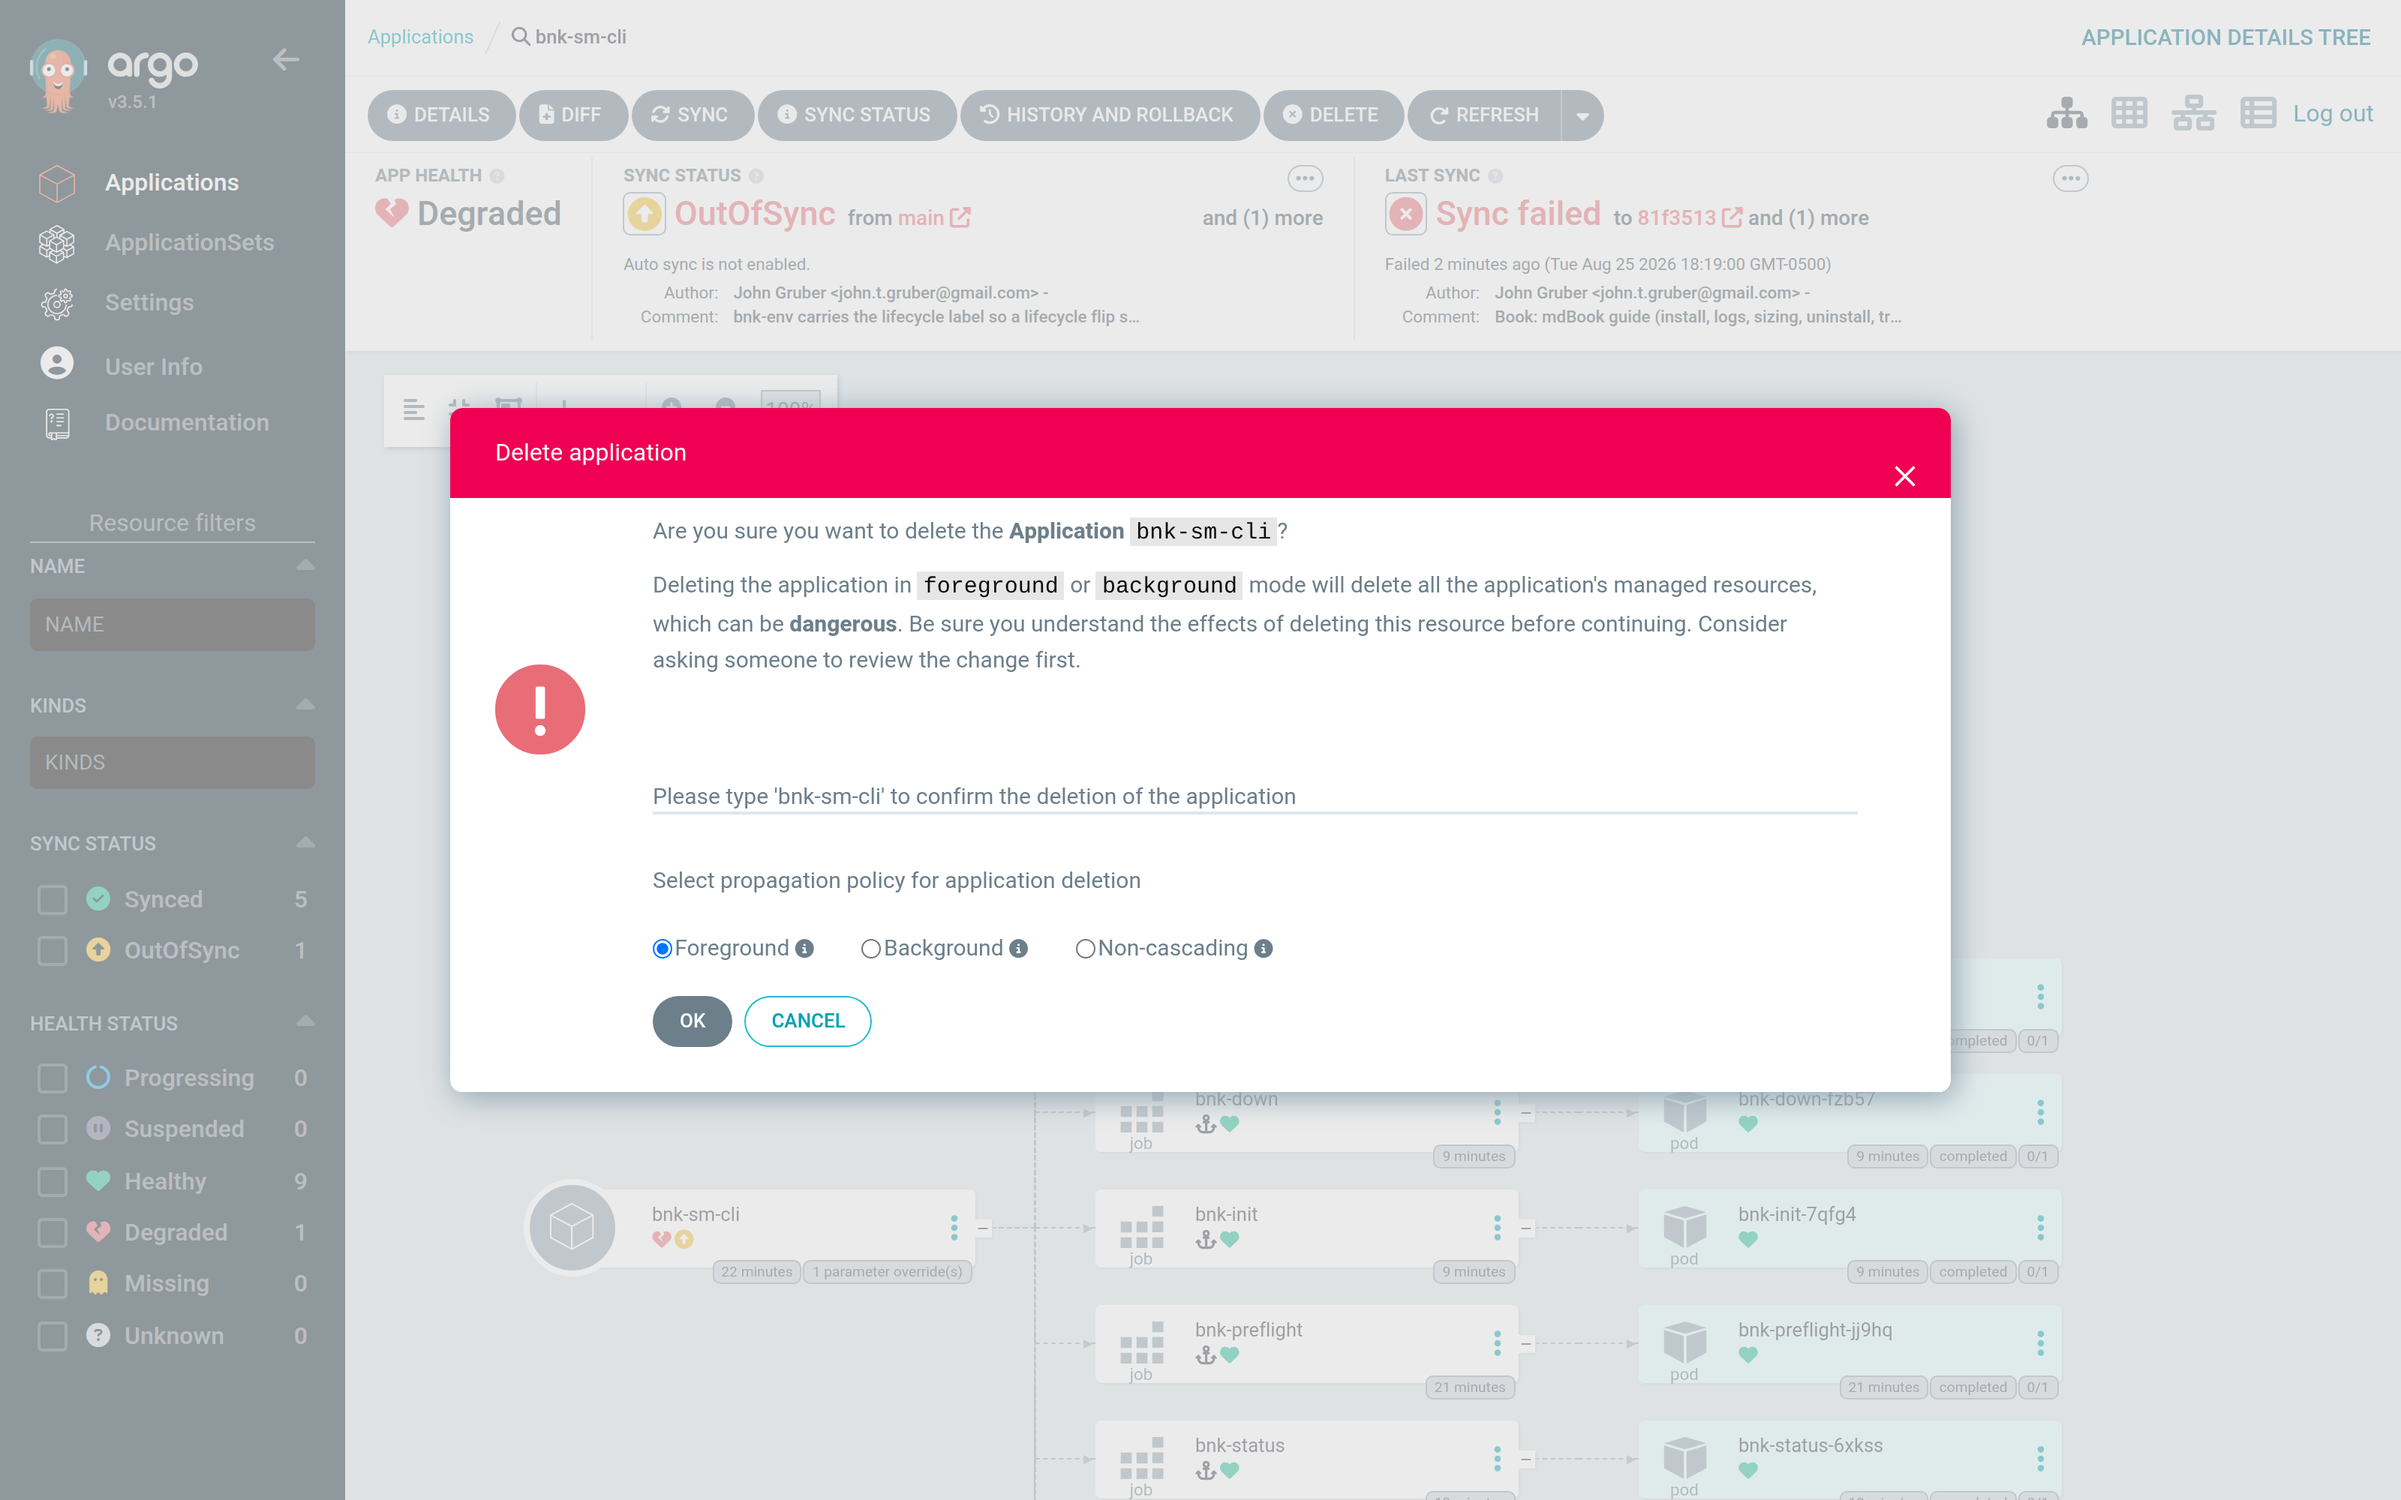
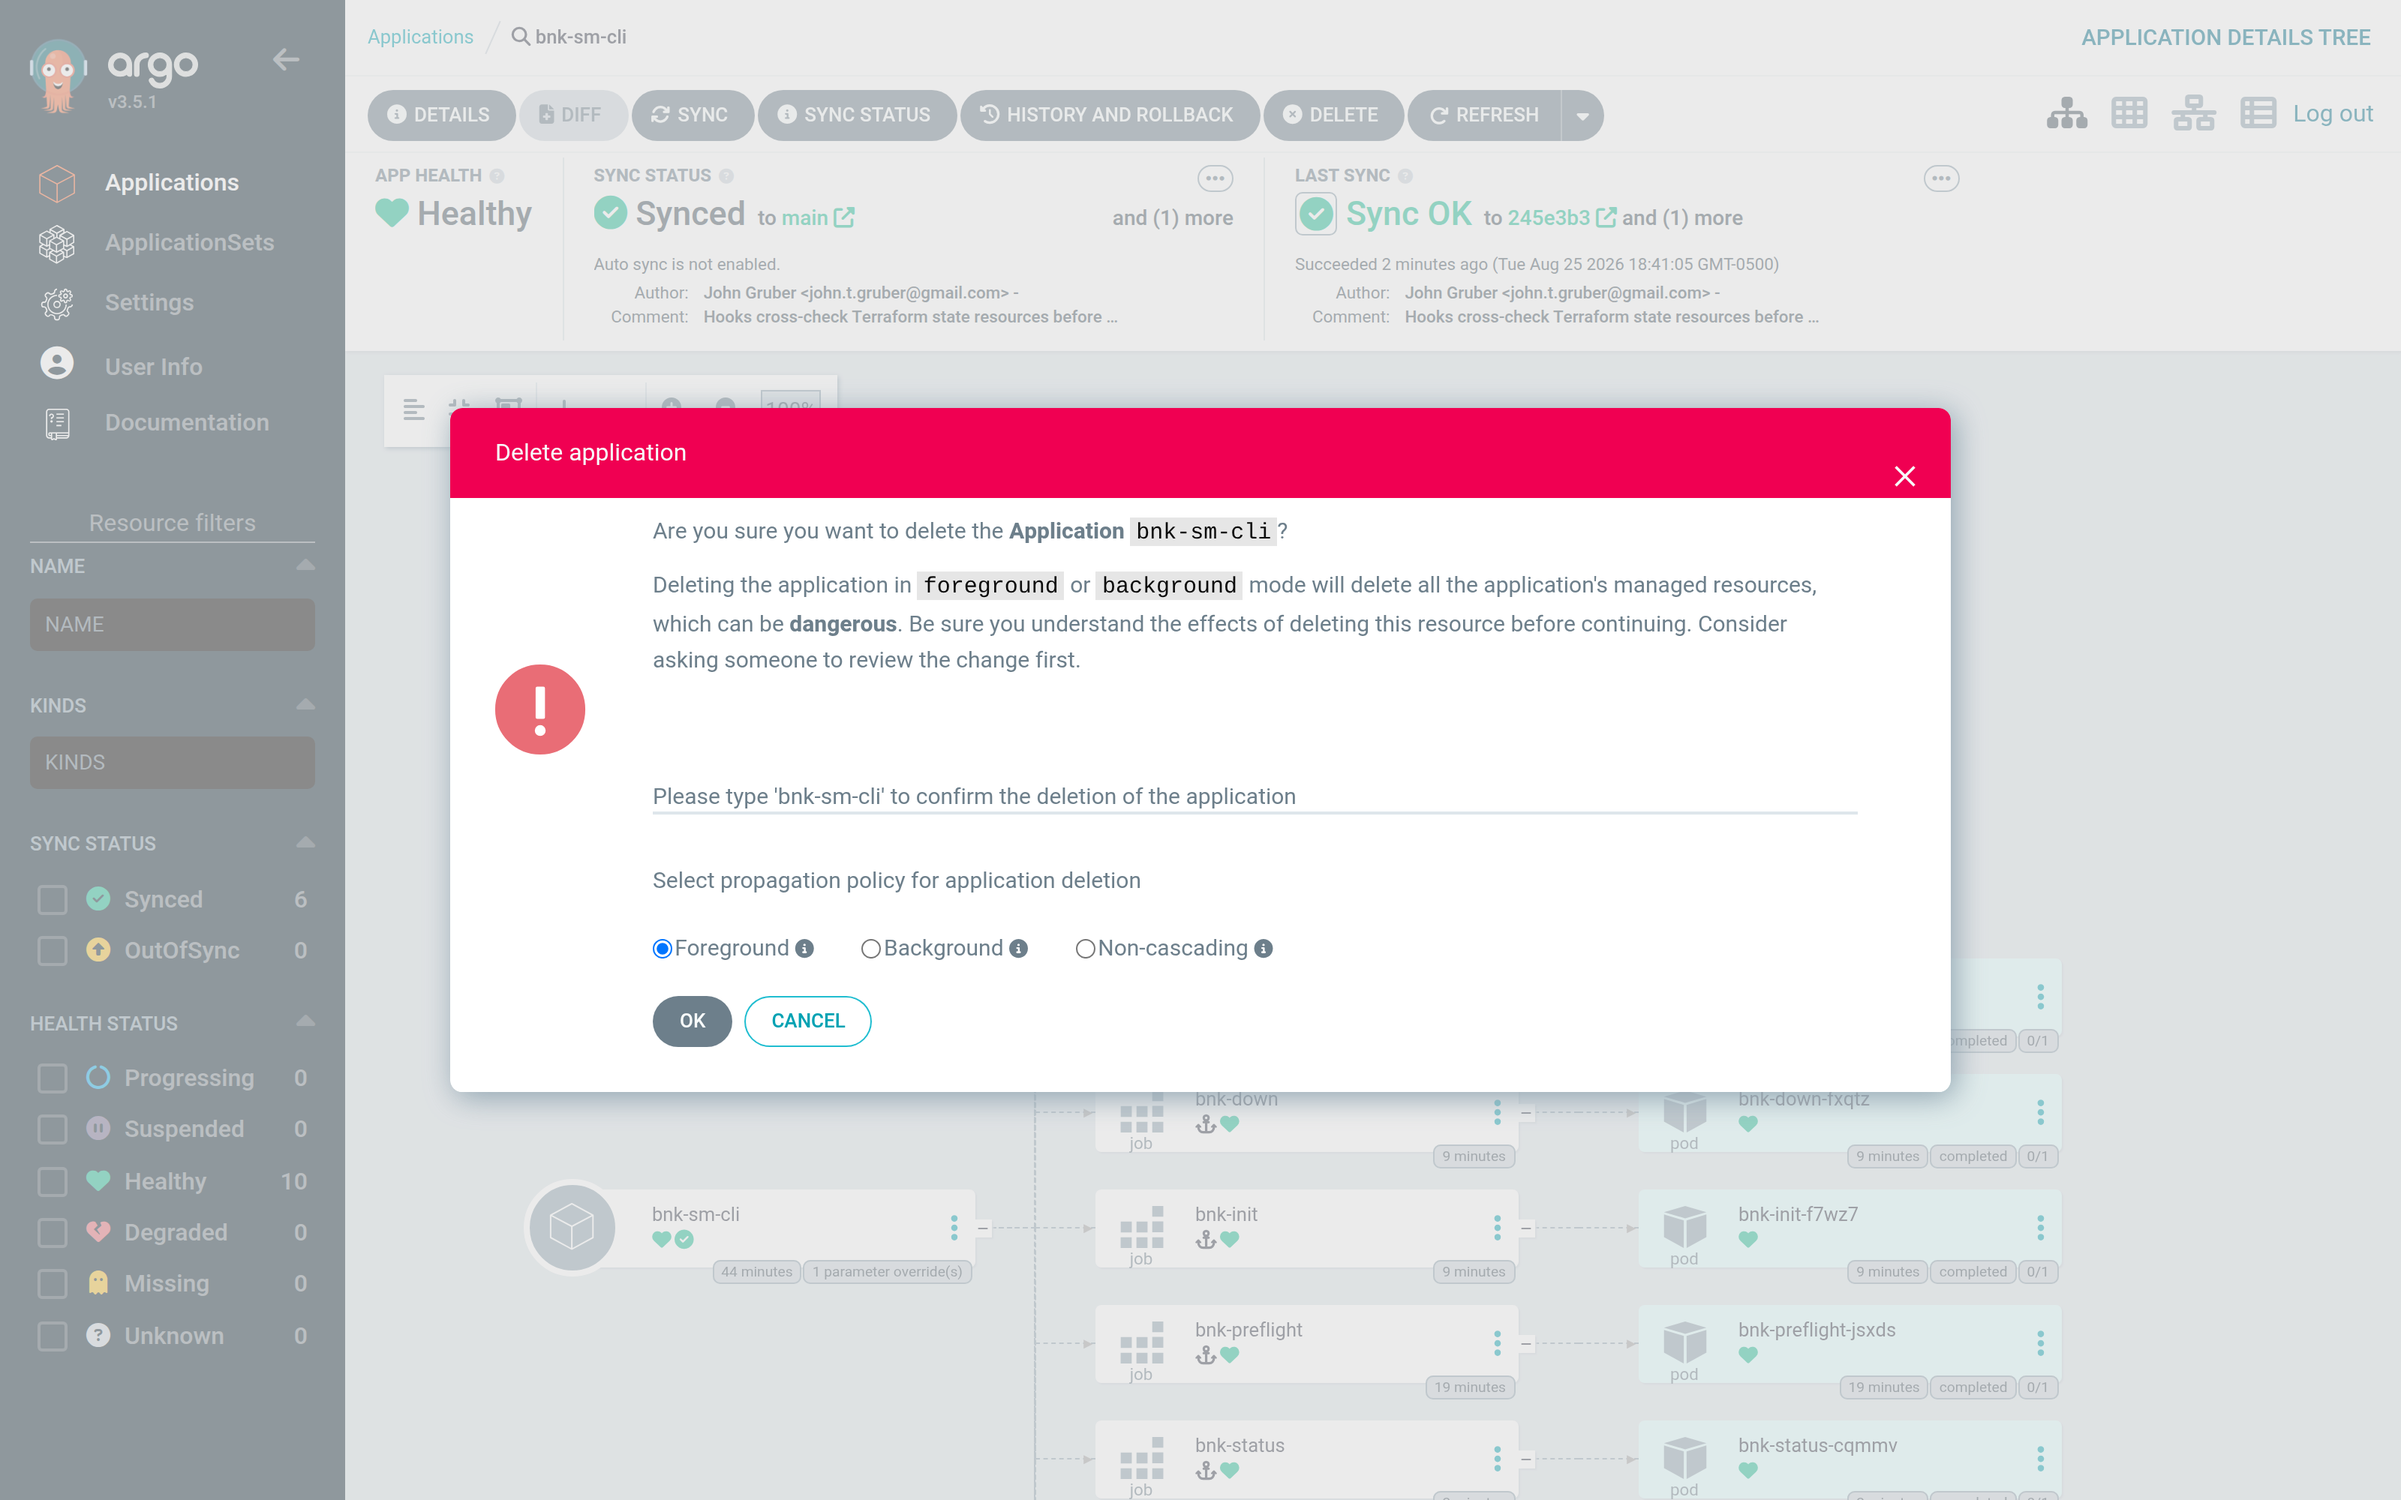
Book: uninstall chapter with real teardown captures (OutOfSync with override, Sources tab, live bnk-down log, torn down, Delete dialog); tfstate cross-check note
Claude-Session: https://claude.ai/code/session_013dz6ug5kXKb94iL9fYSWhs

Changed region(s): [[0.4688, 0.093, 0.7812, 0.217], [0.1562, 0.062, 0.4688, 0.217]]

diff --git a/book/capture/capture.js b/book/capture/capture.js
@@ -141,11 +141,22 @@ const sleep = ms => new Promise(r => setTimeout(r, ms));
         await goto(appUrl());
         await clickText('button', 'details'); await sleep(1500);
         // the sliding panel's tabs are anchors/spans; find "Parameters" by text
-        await page.evaluate(() => { const t = Array.from(document.querySelectorAll('a,span,div')).find(e => ['Sources','Parameters'].includes((e.textContent || '').trim()) && e.children.length === 0); if (t) t.click(); });
-        await sleep(2000);
+        // the panel's tab strip: match the tab by (case-insensitive) text, prefer the smallest element
+        await page.evaluate(() => {
+          const cands = Array.from(document.querySelectorAll('.tabs__nav a, .tabs__nav span, [class*="tab"] a, [class*="tab"] span, a, span, div, li'))
+            .filter(e => /^(sources|parameters)$/i.test((e.textContent || '').trim()));
+          cands.sort((a, b) => a.textContent.length - b.textContent.length || (a.getBoundingClientRect().width - b.getBoundingClientRect().width));
+          if (cands[0]) cands[0].click();
+        });
+        await sleep(2500);
         // expand the first (chart) source so its Helm parameters are visible
-        await page.evaluate(() => { const t = Array.from(document.querySelectorAll('a,span,div,i')).find(e => /charts\/bnk-workspace/.test(e.textContent || '') && e.children.length <= 2); if (t) t.click(); });
-        await sleep(1500);
+        await page.evaluate(() => {
+          // "Source 1: <repo>" header row → its expand chevron
+          const hdr = Array.from(document.querySelectorAll('div,span,a')).filter(e => /^Source 1:/.test((e.textContent || '').trim()) && e.children.length <= 3).sort((a, b) => a.textContent.length - b.textContent.length)[0];
+          const chev = hdr && hdr.parentElement && hdr.parentElement.querySelector('i[class*="chevron"], i[class*="angle"], [class*="expand"]');
+          (chev || hdr) && (chev || hdr).click();
+        });
+        await sleep(2000);
         await shot(rest[0] ? `details-sources-${rest[0]}` : 'details-sources');
         await page.keyboard.press('Escape');
       }

diff --git a/book/src/10-uninstall.md b/book/src/10-uninstall.md
@@ -31,8 +31,10 @@ git commit -am "sm-cli: tear BNK down" && git push
 is a *multi-source* Application (the chart and the values overlay are two
 sources), so the Helm values live under **Details → Sources**: open
 **Applications → bnk-sm-cli → Details**, choose the **Sources** tab, expand
-the `charts/bnk-workspace` source, click **Edit** next to its parameters, add
-`lifecycle` = `down`, **Save**. Argo CD stores the override in the Application
+**Source 1** (`PATH=charts/bnk-workspace`), click **Edit** in its **Helm**
+section, set the `lifecycle` parameter to `down`, **Save**. The override shows
+in the Parameters list with a wrench icon, and the Application card gains a
+"1 parameter override(s)" badge. Argo CD stores the override in the Application
 spec (`spec.sources[0].helm.parameters`); a later Git change to the overlay
 will not undo it until you remove the override.
 
@@ -65,11 +67,24 @@ module.license.module.license.kubectl_manifest.license[0]: Destroying...
 …
 module.cne_instance.module.cneinstance.kubectl_manifest.cneinstance[0]: Destruction complete
 module.flo.module.flo.helm_release.flo[0]: Destruction complete
+…
+Error: context deadline exceeded
+  ⚠ namespace "f5-bnk" was stuck Terminating; cleared F5 finalizers on 2 object(s) and it drained.
+→ terraform destroy (retry, after freeing the stuck namespace)
+Plan: 0 to add, 0 to change, 5 to destroy.
 module.flo.module.flo.ibm_iam_trusted_profile.cne_controller[0]: Destruction complete
 module.cert_manager.module.cert_manager.helm_release.cert_manager[0]: Destruction complete
-Destroy complete! Resources: 37 destroyed.
+Destroy complete! Resources: 5 destroyed.
+✓ BNK phase destroyed. Cluster phase /work/.roksbnkctl/sm-cli/state-cluster/ is intact.
 [status] succeeded deployed=false — bnk down completed
 ```
+
+That log is what actually happened on `sm-cli`: the first destroy hit a
+namespace that would not finish terminating (an F5 custom resource with a
+finalizer whose controller was already gone), roksbnkctl cleared the finalizers,
+watched the namespace drain, and re-ran the destroy for the five resources
+that were left. Nothing for the operator to do — but it is worth recognising
+in the log rather than mistaking the first `Error:` for a failure.
 
 `bnk down` tears the phases down in reverse-dependency order, then sweeps the
 things Terraform cannot see: F5's validating webhook, the licence secrets in

diff --git a/EVALUATION.md b/EVALUATION.md
@@ -250,6 +250,7 @@ No `ops` image (`tools-ibmcloud`) is needed — it lacks terraform/helm.
 |---|---|---|
 | `ROKSBNKCTL_STATE_BACKEND=s3` + `ROKSBNKCTL_STATE_S3_*` env overrides (`internal/config/envoverride.go` has no `state:` mapping) | S | lets the env-built workspace use COS remote state; the PVC then holds only JSON handoffs |
 | `bnk status --json` (and `plan`) write a status ConfigMap (`--status-configmap ns/name`) — or keep it in the hook shell | S | Argo CD health without shell glue |
+| `bnk status --json` should report `deployed:false` when the state file holds zero resources (today it reports `true` right after `bnk down`; the chart cross-checks the tfstate) | S | correct health after a teardown without shell workarounds |
 | `bnk preflight` verb = `prepareBNKUp` up to and including `terraform plan` (with the bnk-phase override), categorised exit codes (PRD 17) | M | **needed**: `roksbnkctl plan` is the legacy composite path and cannot gate a split workspace; the chart's shell gate only covers the file guards |
 | cwc-guard folded into `bnk up` (2.3) or documented sentinel pattern | S | one container, no sidecar lifecycle problem |
 | `cluster register --argocd-cluster-secret <ns/name>` writes an Argo CD cluster Secret from the fetched admin config (with token refresh via `kubeconfig_refresh.go`) | M | hub model for native manifests |

diff --git a/book/src/appendix-b-screenshots.md b/book/src/appendix-b-screenshots.md
@@ -35,11 +35,13 @@ ARGOCD_PASSWORD=… SHOT_SECRETS="$IBMCLOUD_API_KEY" APP_NS=bnk-sm-cli \
 | `logs:<job>[:suffix]` | `logs-<job>[-suffix].png` — the Job's Logs tab, scrolled to the end |
 | `res:<Kind>/<name>[:tab][:suffix]` | `res-<name>-<tab>.png` — a resource's panel (`summary`, `manifest`, `events`, `logs`) |
 | `settings-repos`, `settings-projects` | `settings-repositories.png`, `settings-projects.png` |
+| `details-sources[:suffix]` | `details-sources[-suffix].png` — Details → Sources with Source 1 expanded (Helm parameters / overrides) |
 | `delete-dialog` | `delete-dialog.png` |
 
 The uninstall chapter's pictures are the same steps run after switching
-`lifecycle` to `down`: `app:down-outofsync` before the sync, `logs:bnk-down`
-during it, `app:torn-down` after, and `delete-dialog`.
+`lifecycle` to `down`: `app:down-outofsync` and `details-sources:down` before
+the sync, `app:tearing-down` and `logs:bnk-down:running` during it,
+`app:torn-down` and `logs:bnk-down` after, and `delete-dialog`.
 
 ## Secrets
 

diff --git a/book/src/12-troubleshooting.md b/book/src/12-troubleshooting.md
@@ -60,6 +60,14 @@ the log from the end:
 Fix the cause and **Sync** again: the apply is idempotent and continues from
 the Terraform state on the PVC.
 
+## "bnk down completed" but the Application went Degraded
+
+roksbnkctl's `bnk status --json` reports `deployed: true` whenever the phase's
+state file exists — including right after a destroy, when it holds zero
+resources. The hooks therefore cross-check the Terraform state's resource
+count before writing `deployed`; if you run an older chart, update it. (Seen on
+the first `sm-cli` teardown; fixed in the chart the same day.)
+
 ## Argo CD says OutOfSync right after a successful sync
 
 Expected once: the hooks patched `bnk-status`, and Argo CD compares it with
